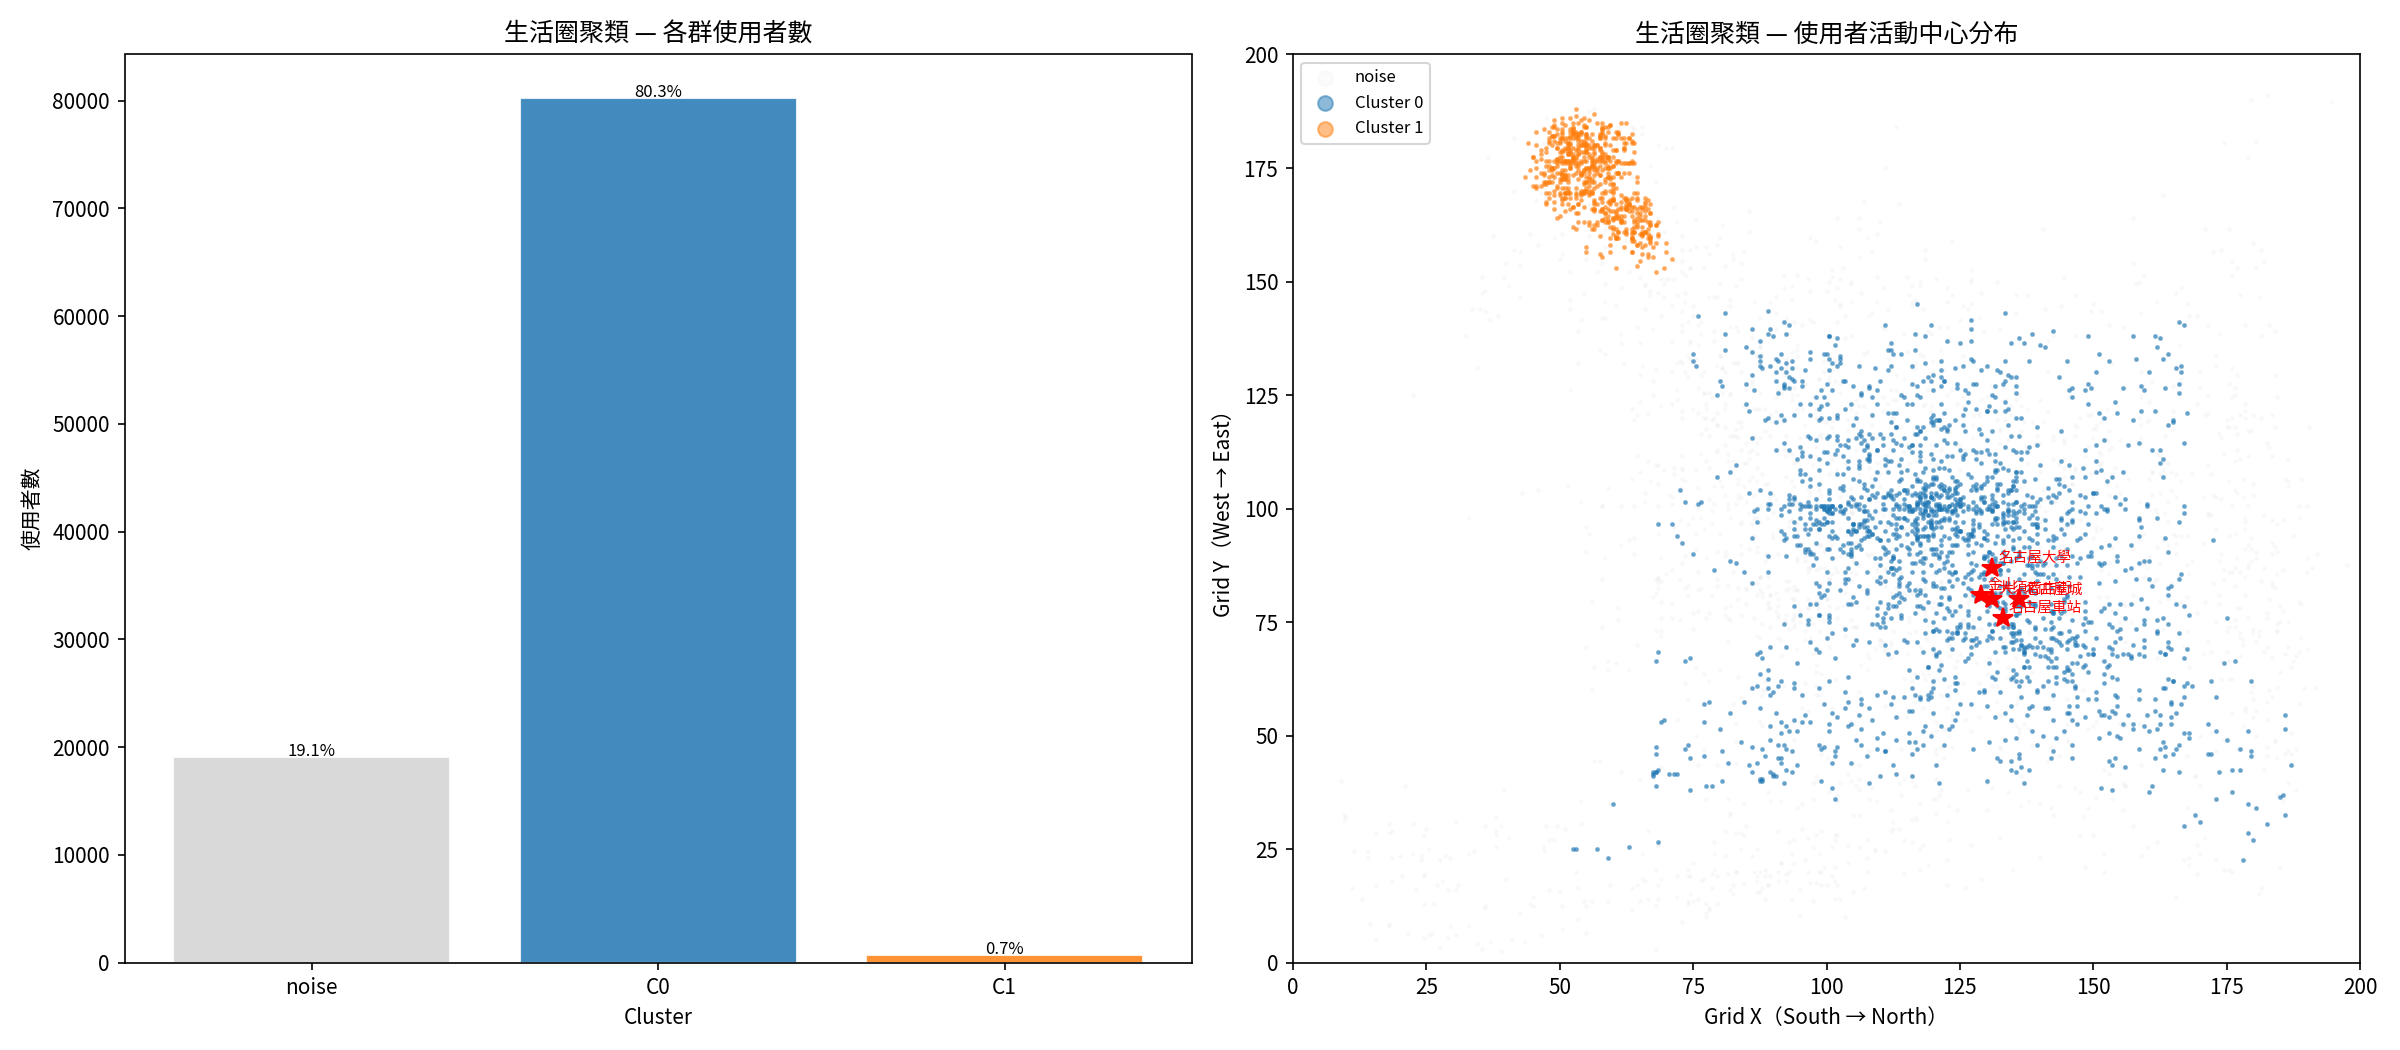
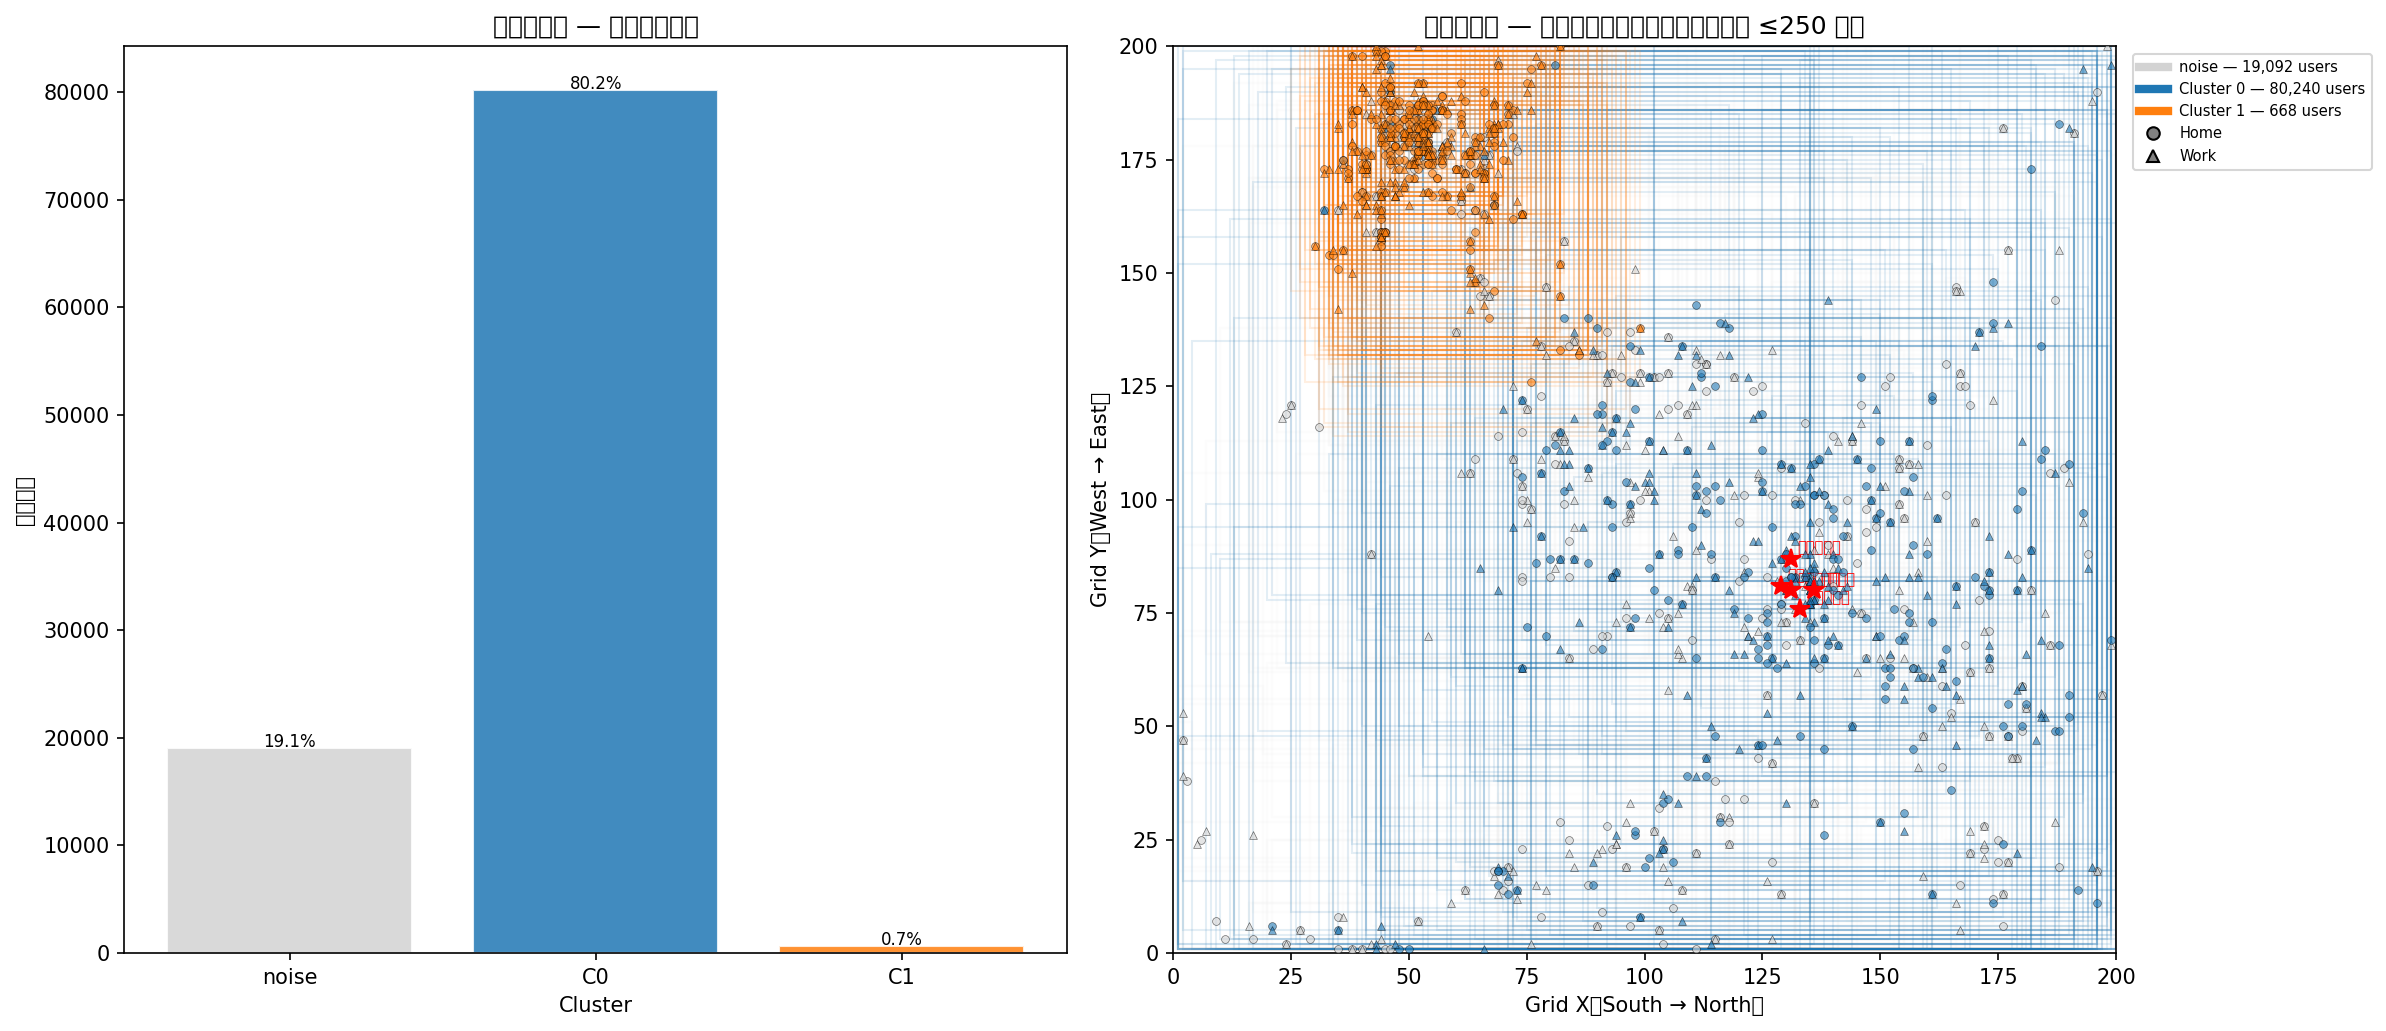
Replace activity-space cluster scatter with bbox rectangle-overlay map
Show each user's activity bounding box as a translucent rectangle (plus
home/work markers) colored by cluster, so life-zone size and overlap are
visible at a glance instead of just cluster centroids. Refresh Section 7.4
table with the regenerated run's numbers.

diff --git a/analysis/personal_trajectory_analysis.py b/analysis/personal_trajectory_analysis.py
@@ -411,10 +411,12 @@ def activity_space_cluster(features_df: pd.DataFrame) -> dict:
     HDBSCAN on user bounding-box vectors to find life-zone groups.
     """
     import hdbscan as _hdbscan
+    from matplotlib.patches import Rectangle
 
     _log("Running activity space HDBSCAN clustering …")
     bbox_cols = ["bbox_xmin", "bbox_ymin", "bbox_xmax", "bbox_ymax"]
-    feat = features_df[["uid"] + bbox_cols].dropna().copy()
+    loc_cols = ["home_x", "home_y", "work_x", "work_y"]
+    feat = features_df[["uid"] + bbox_cols + loc_cols].dropna(subset=bbox_cols).copy()
     X = feat[bbox_cols].to_numpy(dtype=float)
 
     clusterer = _hdbscan.HDBSCAN(min_cluster_size=300, min_samples=350)
@@ -463,18 +465,40 @@ def activity_space_cluster(features_df: pd.DataFrame) -> dict:
     ax.set_xlabel("Cluster")
     ax.set_ylabel("使用者數")
 
-    # Scatter: bbox center coloured by cluster
+    # Living-range overlay: each sampled user's bbox drawn as a translucent
+    # rectangle (+ home/work markers), coloured by cluster — makes the size
+    # and overlap of each life-zone group visible at a glance, not just its centre.
     ax2 = axes[1]
-    feat["cx"] = (feat["bbox_xmin"] + feat["bbox_xmax"]) / 2
-    feat["cy"] = (feat["bbox_ymin"] + feat["bbox_ymax"]) / 2
+    rng = np.random.RandomState(42)
+    max_per_cluster = 250
+    legend_handles = []
     for cid in unique_labels:
         sub = feat[feat["cluster"] == cid]
-        if len(sub) > 2000:
-            sub = sub.sample(2000, random_state=42)
+        n = len(sub)
+        sample_n = min(max_per_cluster, n)
+        sample = sub.sample(sample_n, random_state=42) if n > sample_n else sub
         color = "lightgray" if cid == -1 else f"C{cid}"
-        lbl   = "noise" if cid == -1 else f"Cluster {cid}"
-        alpha = 0.08 if cid == -1 else 0.5
-        ax2.scatter(sub["cx"], sub["cy"], s=2, alpha=alpha, color=color, label=lbl)
+        lbl   = f"noise — {n:,} users" if cid == -1 else f"Cluster {cid} — {n:,} users"
+        rect_alpha = 0.05 if cid == -1 else 0.12
+        for _, row in sample.iterrows():
+            xmin, ymin, xmax, ymax = row["bbox_xmin"], row["bbox_ymin"], row["bbox_xmax"], row["bbox_ymax"]
+            ax2.add_patch(Rectangle((xmin, ymin), xmax - xmin, ymax - ymin,
+                                    fill=False, edgecolor=color, alpha=rect_alpha, linewidth=1))
+            if pd.notna(row["home_x"]):
+                ax2.scatter(row["home_x"], row["home_y"], c=color, s=14, marker="o",
+                            alpha=0.6, edgecolors="k", linewidths=0.3, zorder=5)
+            if pd.notna(row["work_x"]):
+                ax2.scatter(row["work_x"], row["work_y"], c=color, s=14, marker="^",
+                            alpha=0.6, edgecolors="k", linewidths=0.3, zorder=5)
+        legend_handles.append(plt.Line2D([0], [0], color=color, lw=4, label=lbl))
+
+    # Marker-shape legend + cluster-colour legend
+    legend_handles += [
+        plt.Line2D([0], [0], marker="o", color="w", markerfacecolor="gray",
+                   markeredgecolor="k", markersize=6, label="Home"),
+        plt.Line2D([0], [0], marker="^", color="w", markerfacecolor="gray",
+                   markeredgecolor="k", markersize=6, label="Work"),
+    ]
 
     # Overlay known POIs
     for name, (x, y) in KNOWN_POIS.items():
@@ -484,14 +508,14 @@ def activity_space_cluster(features_df: pd.DataFrame) -> dict:
 
     ax2.set_xlim(0, GRID_SIZE)
     ax2.set_ylim(0, GRID_SIZE)
-    ax2.set_title("生活圈聚類 — 使用者活動中心分布")
+    ax2.set_title(f"生活圈聚類 — 使用者活動範圍疊圖（每群抽樣 ≤{max_per_cluster} 人）")
     ax2.set_xlabel("Grid X（South → North）")
     ax2.set_ylabel("Grid Y（West → East）")
-    ax2.legend(markerscale=5, fontsize=8)
+    ax2.legend(handles=legend_handles, fontsize=7, loc="upper left", bbox_to_anchor=(1.01, 1))
 
     plt.tight_layout()
     path = FIG_DIR / "activity_space_clusters.png"
-    plt.savefig(path, dpi=150)
+    plt.savefig(path, dpi=150, bbox_inches="tight")
     plt.close()
     _log(f"  saved → {path.name}")
 

diff --git a/report/report.md b/report/report.md
@@ -519,13 +519,15 @@ HDBSCAN 的輸出直接服務於後續 CVAE 模型的特徵工程：
 
 **方法**：對每位使用者計算其全部訓練天的活動 bounding box（bbox_xmin, bbox_ymin, bbox_xmax, bbox_ymax），以此 4 維向量執行 HDBSCAN（min_cluster_size=300, min_samples=350）。
 
+左圖為各群使用者數量分布；右圖把每位抽樣使用者的活動 bounding box 畫成半透明矩形疊在地圖上（每群最多抽樣 250 人），並標出其 home（圓點）／work（三角形）位置——比起單純畫活動中心點，矩形疊圖能同時呈現各生活圈的「位置」與「範圍大小」，群與群之間的重疊程度也一目了然。
+
 ![生活圈聚類結果](img/activity_space_clusters.png)
 
 | 群組 | 使用者數 | 比例 | 活動中心 (x, y) | 平均活動範圍 |
 |---|---|---|---|---|
-| **Cluster 1**（名古屋都市圈） | 80,269 | **80.3%** | (122.8, 90.1) | 107 × 123 格（≈ 54km × 62km） |
-| Cluster 0（東南遠郊） | 672 | 0.7% | (56.6, 172.3) | 38 × 45 格 |
-| Noise（分散型） | 19,059 | **19.1%** | — | 71 × 77 格 |
+| **Cluster 0**（名古屋都市圈） | 80,240 | **80.2%** | (122.8, 90.2) | 107 × 123 格（≈ 54km × 62km） |
+| Cluster 1（東南遠郊） | 668 | 0.7% | (56.6, 172.3) | 38 × 45 格 |
+| Noise（分散型） | 19,092 | **19.1%** | — | 71 × 77 格 |
 
 **結果解讀**：
 - **80% 的使用者共享同一個名古屋都市圈生活圈**，活動範圍高達 54km × 62km，覆蓋整個大名古屋都會區。